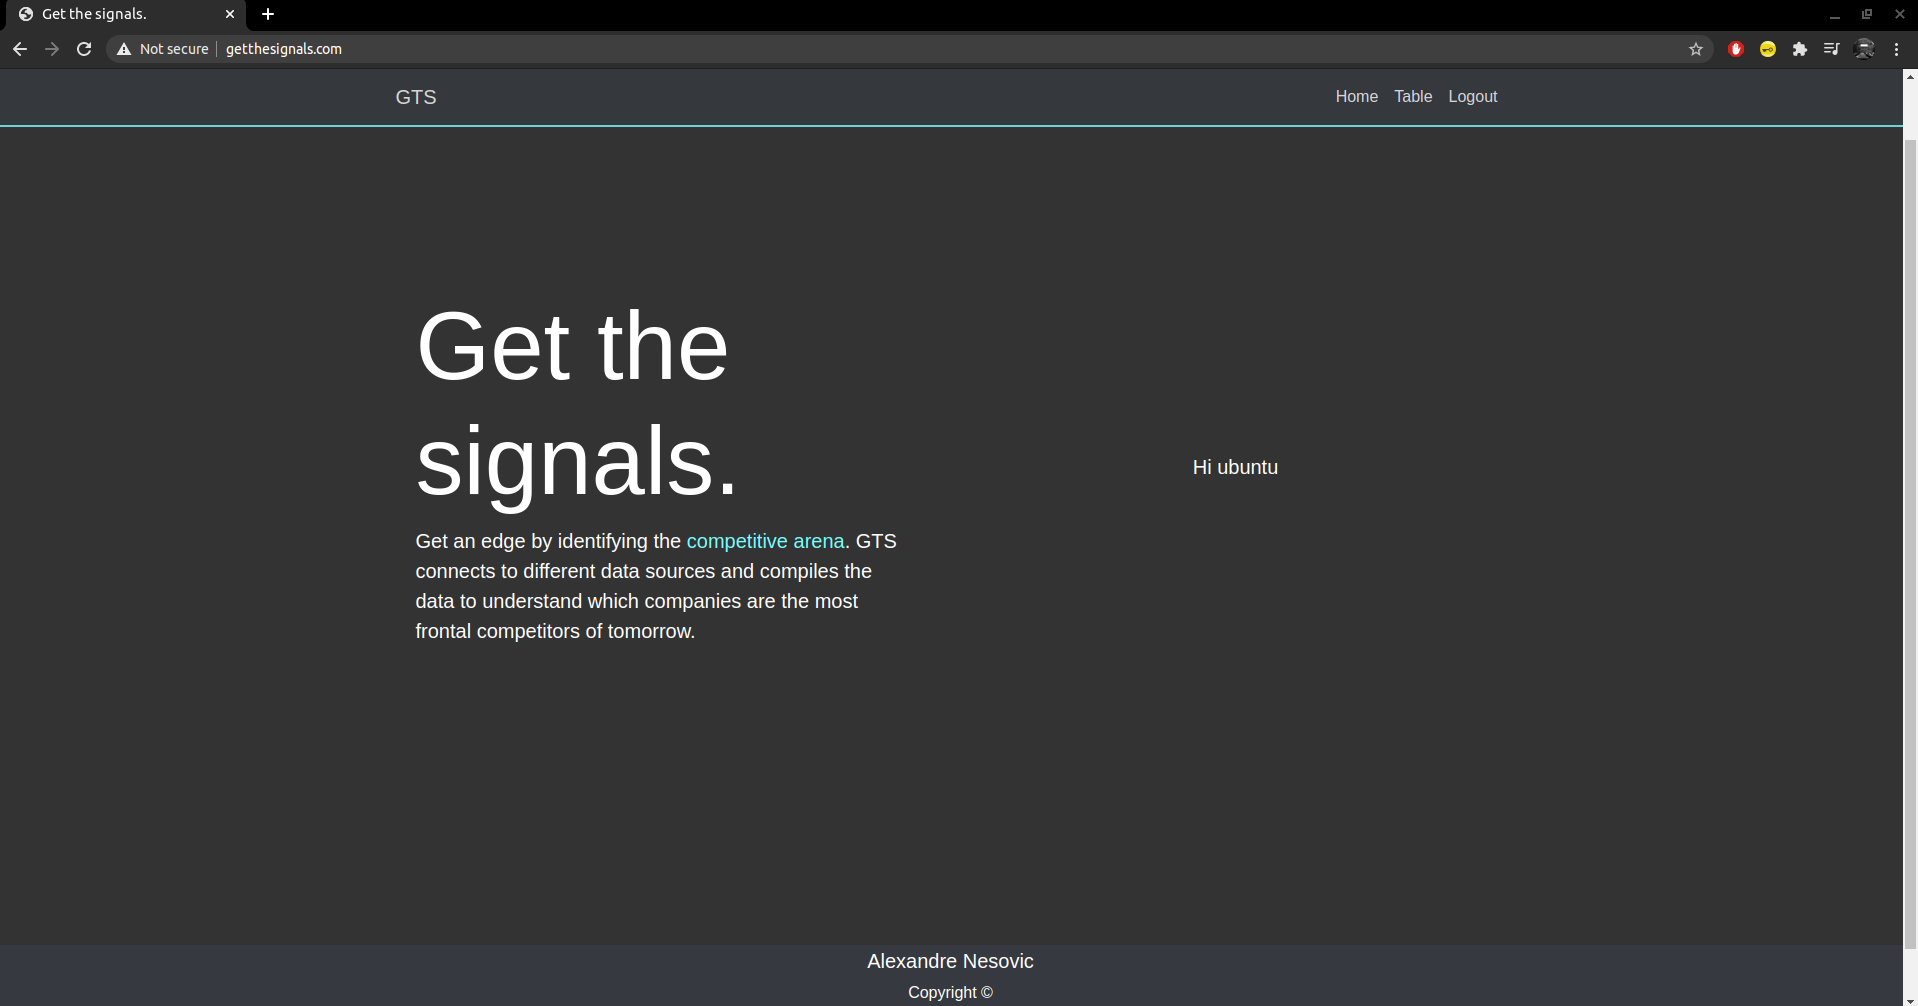
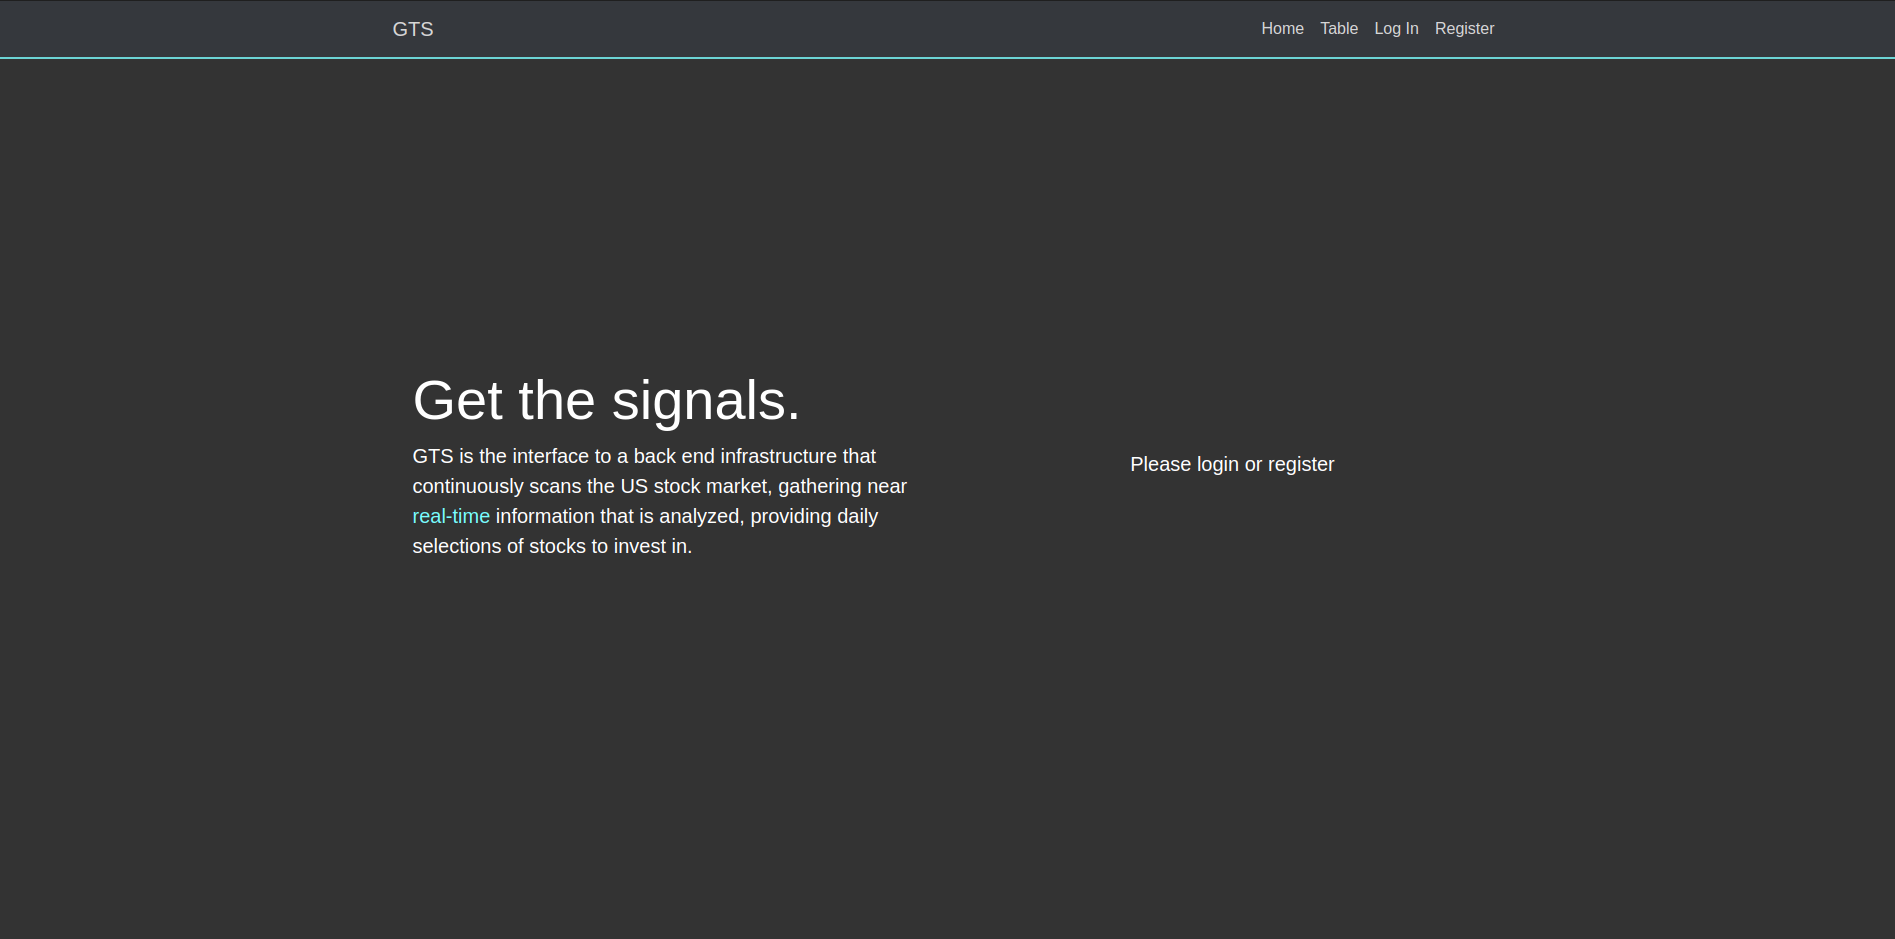
home + screencap

diff --git a/SV/templates/home.html b/SV/templates/home.html
@@ -13,7 +13,7 @@
             <div class="card-body">
                 <h4 class=" display-4">Get the signals.</h4>
                 <p class="lead">GTS is the interface to a back end infrastructure that continuously scans the
-                    US stock market, gathering near <span style="color:aqua">real-time</span> information and insights.
+                    US stock market, gathering near <span style="color:aqua">real-time</span> information that is analyzed, providing daily selections of stocks to invest in.
                 </p>
             </div>
         </div>

diff --git a/SV/static/style_welcome_user.css b/SV/static/style_welcome_user.css
@@ -1,0 +1,9 @@
+.col-sm {
+    min-height: 100%;  /* Fallback for browsers do NOT support vh unit */
+    min-height: 100vh; /* These two lines are counted as one :-)       */
+  
+    display: flex;
+    align-items: center;
+  }
+
+
